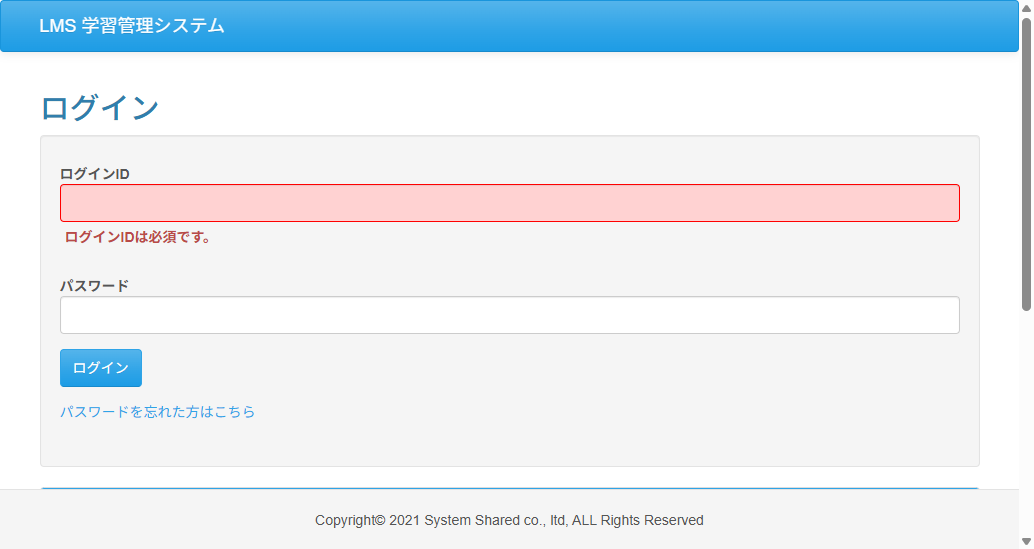
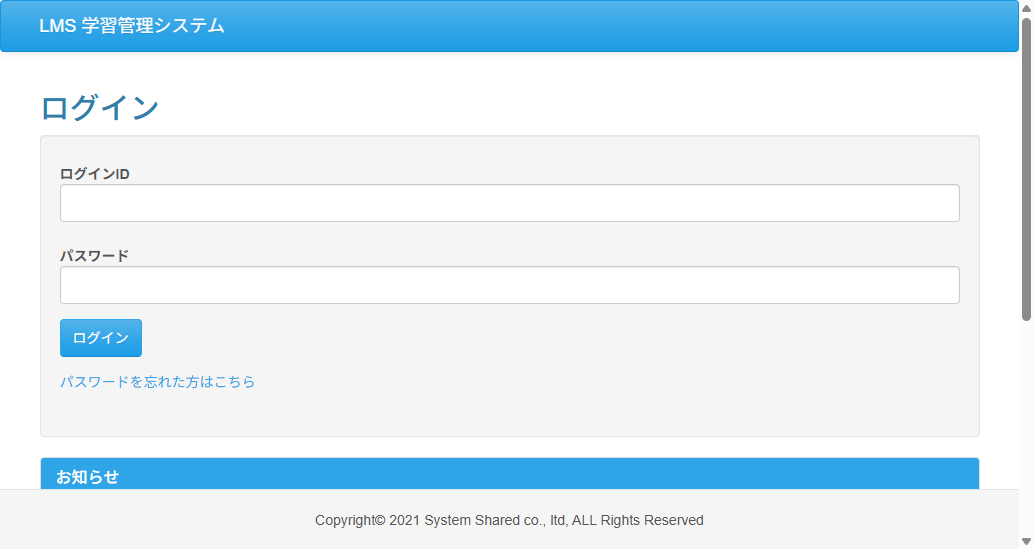
fix: テスト仕様書およびCase02テストコードの指摘事項修正
・テスト仕様書の表紙の更新履歴内容を具体的に修正
・ケース02のテスト項目をケース一覧の概要を満たす構成（画面表示・DB未登録ログイン）に修正
・仕様書修正に伴い、Case02.javaの不要コード（未入力チェック）の削除および修正
・不要になったエビデンス画像の整理

diff --git a/test_code_creation_name/src/test/java/jp/co/sss/lms/ct/f01_login1/Case02.java b/test_code_creation_name/src/test/java/jp/co/sss/lms/ct/f01_login1/Case02.java
@@ -3,8 +3,6 @@ package jp.co.sss.lms.ct.f01_login1;
 import static jp.co.sss.lms.ct.util.WebDriverUtils.*;
 import static org.junit.jupiter.api.Assertions.*;
 
-import java.util.List;
-
 import org.junit.jupiter.api.AfterAll;
 import org.junit.jupiter.api.BeforeAll;
 import org.junit.jupiter.api.DisplayName;
@@ -38,112 +36,23 @@ public class Case02 {
 
 	@Test
 	@Order(1)
-	@DisplayName("テスト01 ログインID未入力")
+	@DisplayName("テスト01 トップページURLでアクセス")
 	void test01() {
-
-		// ブラウザをリセット
-		webDriver.manage().deleteAllCookies();
 
 		//URLにアクセスする
 		goTo("http://localhost:8080/lms/");
 
-		// ログインID欄はクリアにする
-		webDriver.findElement(By.id("loginId")).clear();
-
-		//入力するパスワード
-		webDriver.findElement(By.id("password")).clear();
-		webDriver.findElement(By.id("password")).sendKeys("StudentAA001");
-
-		//ログインボタンをクリック
-		webDriver.findElement(By.cssSelector("input[type='submit']")).click();
-
-		//検証：エラーメッセージが表示されているか
-		WebElement errorMsg = webDriver.findElement(By.className("error"));
-
-		// メッセージが画面に表示されているか（CSS等で隠れていないか）
-		assertTrue(errorMsg.isDisplayed());
-
-		// メッセージの内容が正しいか
-		assertTrue(errorMsg.getText().contains("ログインIDは必須です。"));
-
-		//エビデンスを取得（テスト01）
+		//画面遷移が成功したかを確かめるため、タイトルタグを取得・検証
+		assertEquals("ログイン | LMS", webDriver.getTitle());
+		//エビデンスを取得（テストNo.1）
 		getEvidence(new Object() {
 		});
 	}
 
 	@Test
 	@Order(2)
-	@DisplayName("テスト02 パスワード未入力")
+	@DisplayName("テスト04 DBに存在しないログインID・パスワードを入力")
 	void test02() {
-
-		// ブラウザをリセット
-		webDriver.manage().deleteAllCookies();
-
-		//URLにアクセスする
-		goTo("http://localhost:8080/lms/");
-
-		//入力するログインID
-		webDriver.findElement(By.id("loginId")).clear();
-		webDriver.findElement(By.id("loginId")).sendKeys("StudentAA001");
-
-		// パスワード欄はクリアにする
-		webDriver.findElement(By.id("password")).clear();
-
-		//ログインボタンをクリック
-		webDriver.findElement(By.cssSelector("input[type='submit']")).click();
-
-		//検証：エラーメッセージが表示されているか
-		WebElement errorMsg = webDriver.findElement(By.className("error"));
-
-		// メッセージが画面に表示されているか（CSS等で隠れていないか）
-		assertTrue(errorMsg.isDisplayed());
-
-		// メッセージの内容が正しいか
-		assertEquals("パスワードは必須です。", errorMsg.getText());
-
-		//エビデンスを取得（テスト01）
-		getEvidence(new Object() {
-		});
-	}
-
-	@Test
-	@Order(3)
-	@DisplayName("テスト03 ログインID・パスワード未入力")
-	void test03() {
-
-		// ブラウザをリセット
-		webDriver.manage().deleteAllCookies();
-
-		//URLにアクセスする
-		goTo("http://localhost:8080/lms/");
-
-		//未入力の欄はクリアにする
-		webDriver.findElement(By.id("loginId")).clear();
-		webDriver.findElement(By.id("password")).clear();
-
-		//未入力の状態でログインボタンをクリック
-		webDriver.findElement(By.cssSelector("input[type='submit']")).click();
-
-		//1つ目のエラーが出るまで画面更新を待つ
-		webDriver.findElement(By.className("error"));
-
-		//検証：画面更新後に全てのエラーメッセージが表示されているか
-		List<WebElement> errorMsg = webDriver.findElements(By.className("error"));
-
-		// メッセージが画面に表示されているか（CSS等で隠れていないか）
-		assertTrue(errorMsg.get(0).getText().contains("ログインIDは必須です。"));
-		assertTrue(errorMsg.get(1).getText().contains("パスワードは必須です。"));
-
-		//エビデンスを取得（テスト01）
-		getEvidence(new Object() {
-		});
-
-	}
-
-	@Test
-	@Order(4)
-	@DisplayName("テスト04 誤ったログインID・パスワードを入力")
-	void test04() {
 
 		// ブラウザをリセット
 		webDriver.manage().deleteAllCookies();
@@ -168,75 +77,6 @@ public class Case02 {
 		// メッセージの内容が正しいか
 		assertTrue(errorMsg.isDisplayed());
 		assertTrue(errorMsg.getText().contains("ログインに失敗しました。"));
-
-		//エビデンスを取得（テスト01）
-		getEvidence(new Object() {
-		});
-	}
-
-	@Test
-	@Order(5)
-	@DisplayName("テスト05 境界値：ロック直前（2回連続失敗）")
-	void test05() {
-
-		//test04までの失敗カウントをリセット
-		webDriver.manage().deleteAllCookies();
-
-		//URLにアクセスする
-		goTo("http://localhost:8080/lms/");
-
-		//繰り返し処理
-		for (int i = 0; i < 2; i++) {
-
-			//①ID欄に入力
-			webDriver.findElement(By.id("loginId")).clear();
-			webDriver.findElement(By.id("loginId")).sendKeys("StudentA300");
-
-			//②PW欄に入力
-			webDriver.findElement(By.id("password")).clear();
-			webDriver.findElement(By.id("password")).sendKeys("StudentA300");
-
-			//ボタンを押す
-			webDriver.findElement(By.cssSelector("input[type='submit']")).click();
-		}
-
-		//検証：エラーメッセージが表示されているか
-		WebElement errorMsg = webDriver.findElement(By.className("error"));
-
-		// メッセージの内容が正しいか
-		assertTrue(errorMsg.getText().contains("ログインに失敗しました。"));
-
-		//エビデンスを取得（テスト01）
-		getEvidence(new Object() {
-		});
-	}
-
-	@Test
-	@Order(6)
-	@DisplayName("テスト06 境界値：ロック発生（3回連続失敗）")
-	void test06() {
-		//URLにアクセスする
-		goTo("http://localhost:8080/lms/");
-
-		//繰り返し処理
-		for (int i = 0; i < 3; i++) {
-			//①ID欄に入力
-			webDriver.findElement(By.id("loginId")).clear();
-			webDriver.findElement(By.id("loginId")).sendKeys("StudentA300");
-
-			//②PW欄に入力
-			webDriver.findElement(By.id("password")).clear();
-			webDriver.findElement(By.id("password")).sendKeys("StudentA300");
-
-			//ボタンを押す
-			webDriver.findElement(By.cssSelector("input[type='submit']")).click();
-		}
-
-		//検証：エラーメッセージが表示されているか
-		WebElement errorMsg = webDriver.findElement(By.className("error"));
-
-		// メッセージの内容が正しいか
-		assertTrue(errorMsg.getText().contains("規定の回数を超えたため、アカウントにロックがかかりました。"));
 
 		//エビデンスを取得（テスト01）
 		getEvidence(new Object() {
